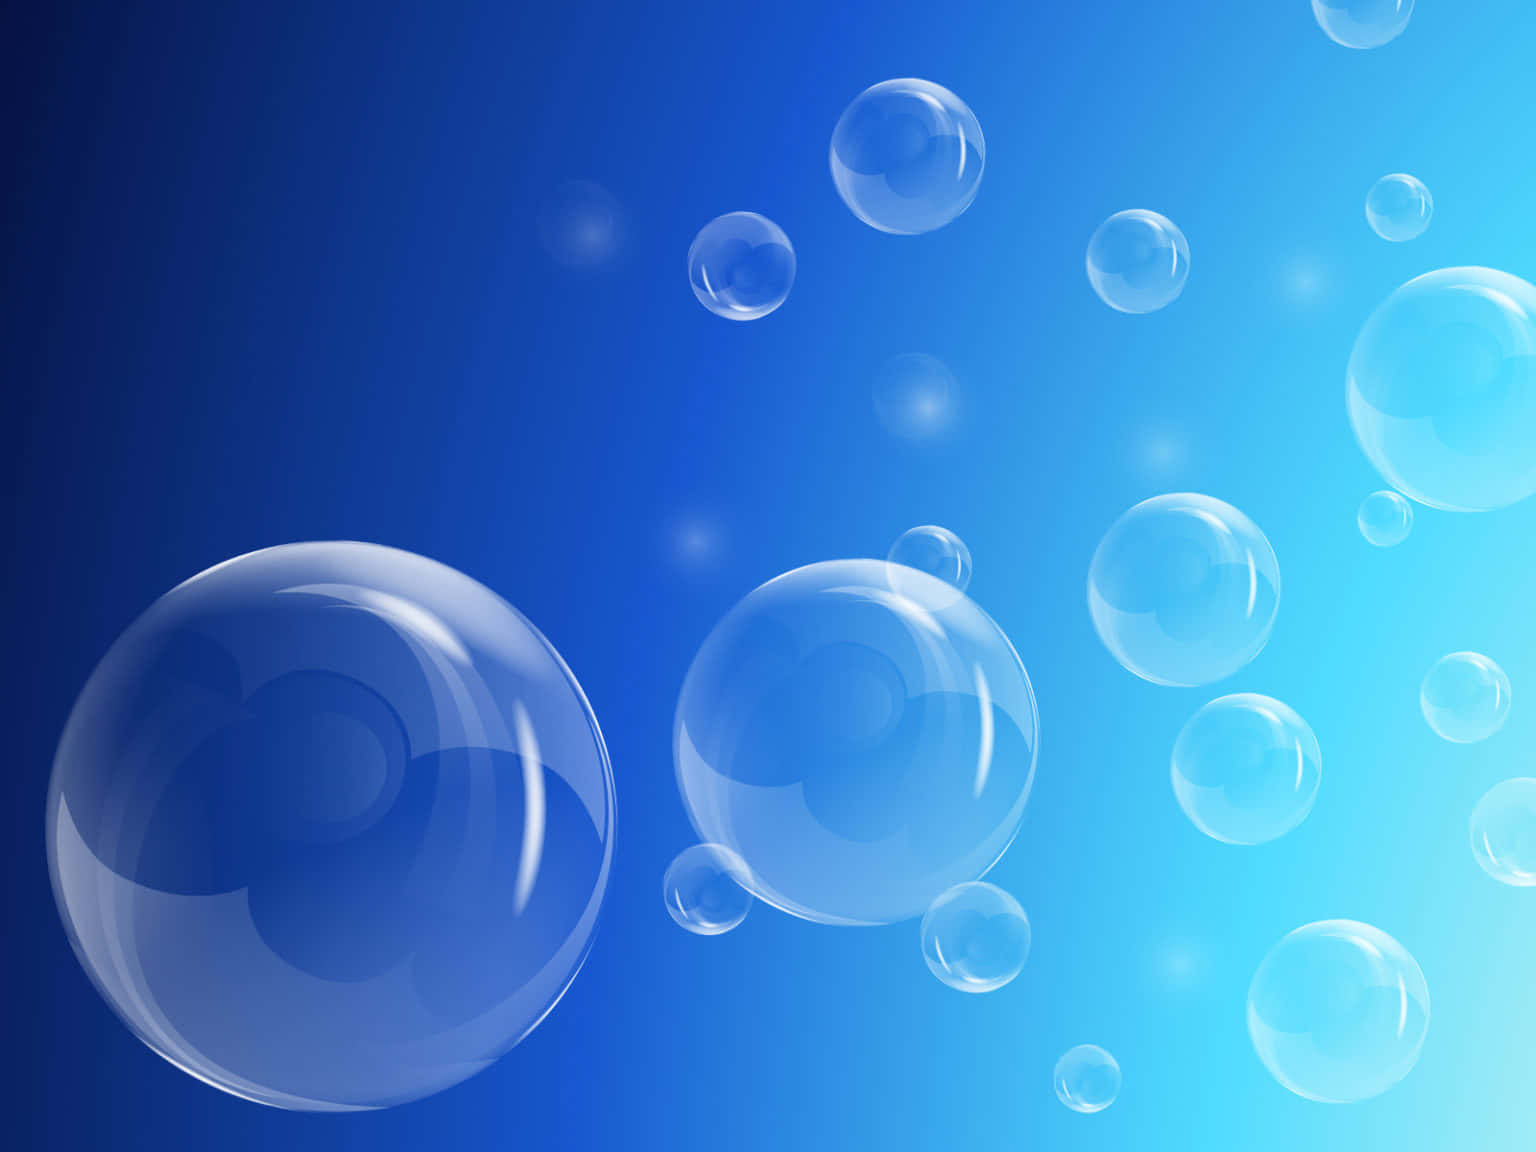
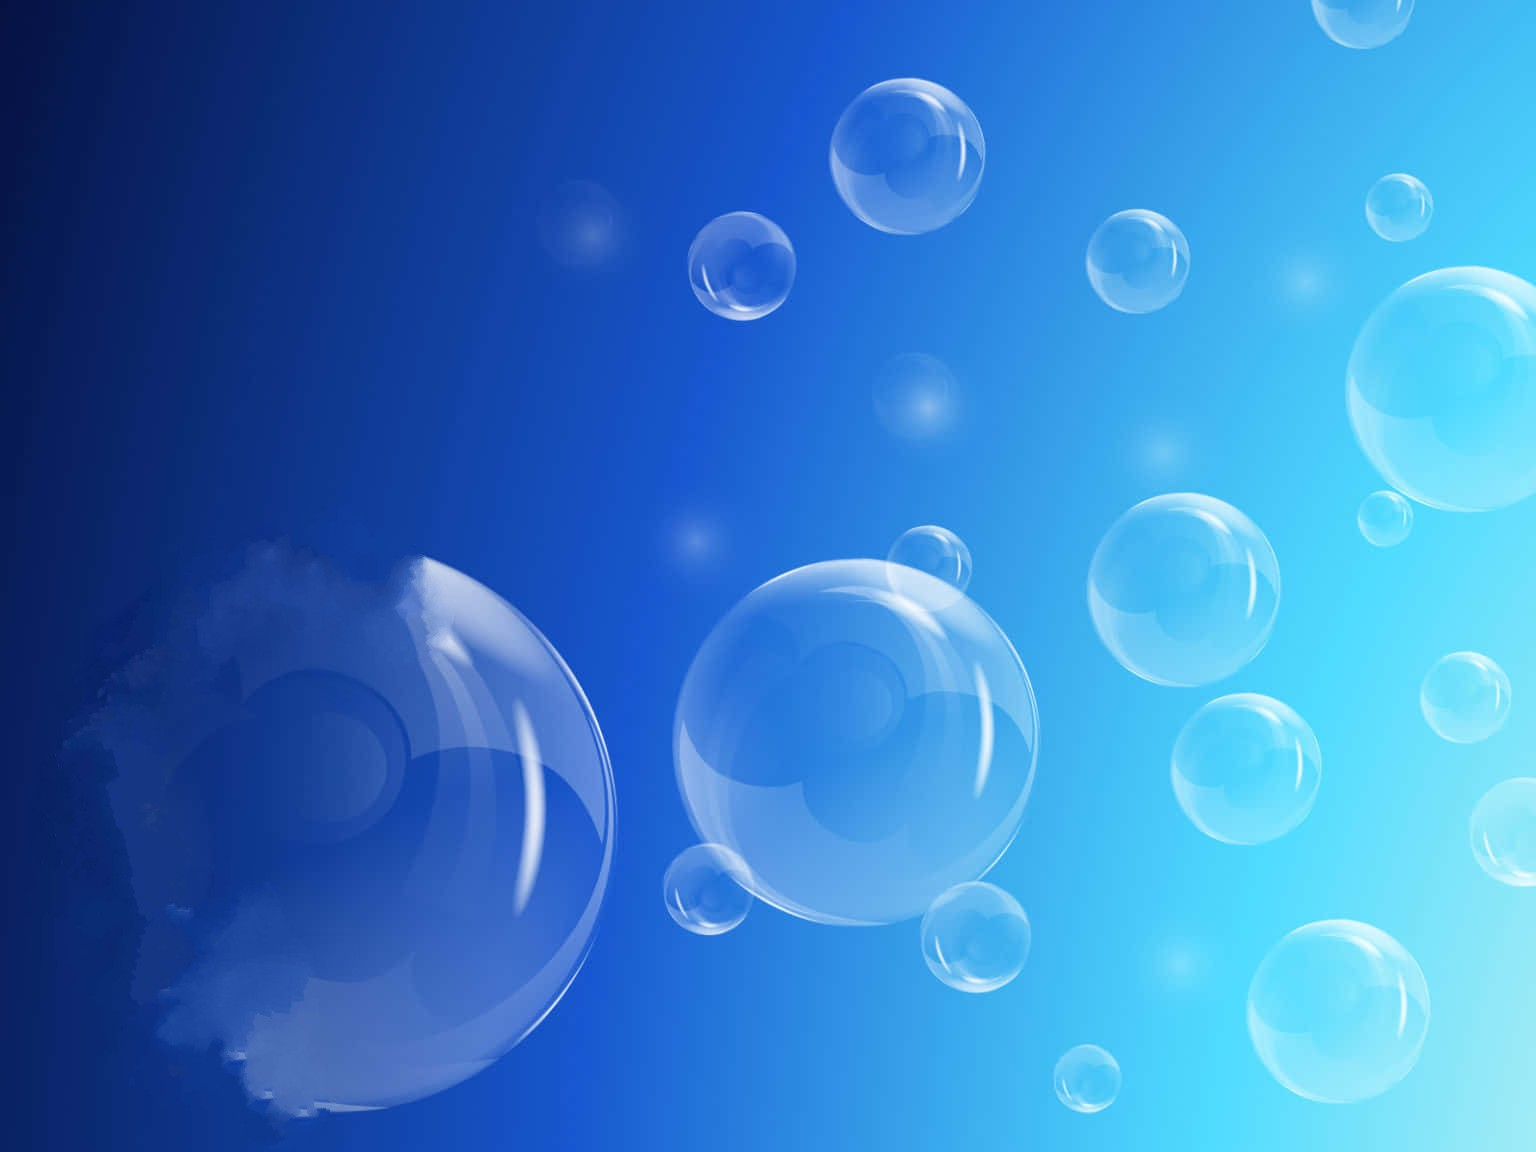
Add two cards

Changed region(s): [[0.0312, 0.4688, 0.3125, 0.9688]]

diff --git a/index.html b/index.html
@@ -89,40 +89,36 @@
         </div>
       </div> -->
       <!-- </div> -->
-      <div style="text-align: center">
-        <section style="flex: 1; margin-right: 8px" class="day-status-contai">
-          <h2 class="day-status-title">One membership, two locations</h2>
-          <h3 class="day-status-sub-title">Join the clean car club</h3>
-        </section>
-        <!-- <section
+      <div style="display: flex">
+        <section
           style="flex: 1; margin-right: 8px"
           class="day-status-container"
         >
           <h2 class="day-status-title">One membership, two locations</h2>
           <h3 class="day-status-sub-title">Join the clean car club</h3>
-        </section> -->
+        </section>
         <section style="flex: 2" class="day-status-container">
           <div class="day-status-list">
             <p>
               <span class="day-status" style="color: #9cc1d9">Good Day</span>
-              <span class="price">$12/month</span>
+              <span class="price">$12</span>
             </p>
             <p>
               <span class="day-status" style="color: #c0e90b">Happy Day</span>
-              <span class="price">$14/month</span>
+              <span class="price">$14</span>
             </p>
 
             <p>
               <span class="day-status" style="color: #cad70a"
                 >Beautiful Day</span
               >
-              <span class="price">$16/month</span>
+              <span class="price">$16</span>
             </p>
             <p>
               <span class="day-status" style="color: #3db20f"
                 >Fantastic Day</span
               >
-              <span class="price">$18/month</span>
+              <span class="price">$18</span>
             </p>
           </div>
         </section>
@@ -254,7 +250,6 @@
     font-weight: 400;
     font-style: normal;
     color: #dec10b;
-    color: rgba(9, 9, 121, 1);
   }
   .day-status-sub-title {
     font-size: 18px;
@@ -263,7 +258,6 @@
     font-weight: 400;
     font-style: normal;
     color: #dec10b;
-    color: rgba(9, 9, 121, 1);
   }
   .day-status-list {
     text-align: left;
